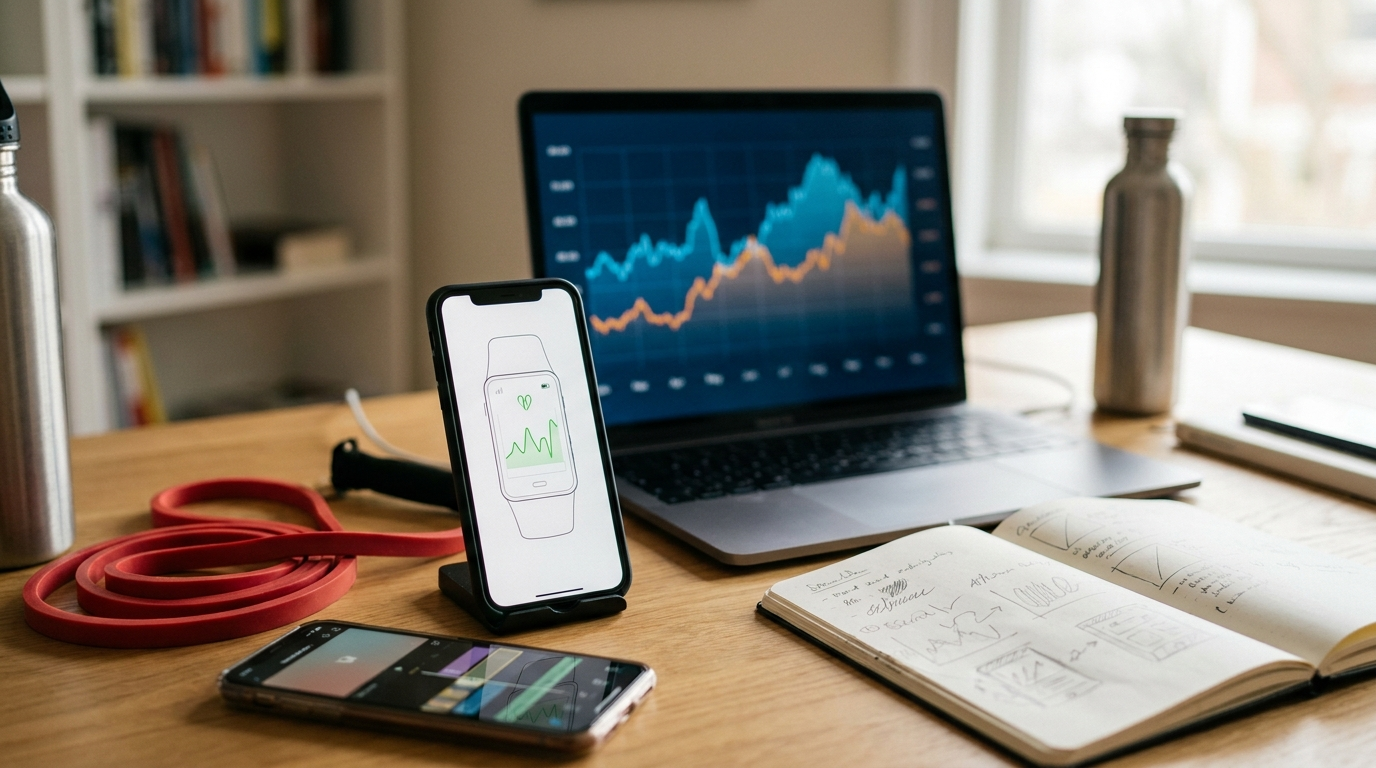
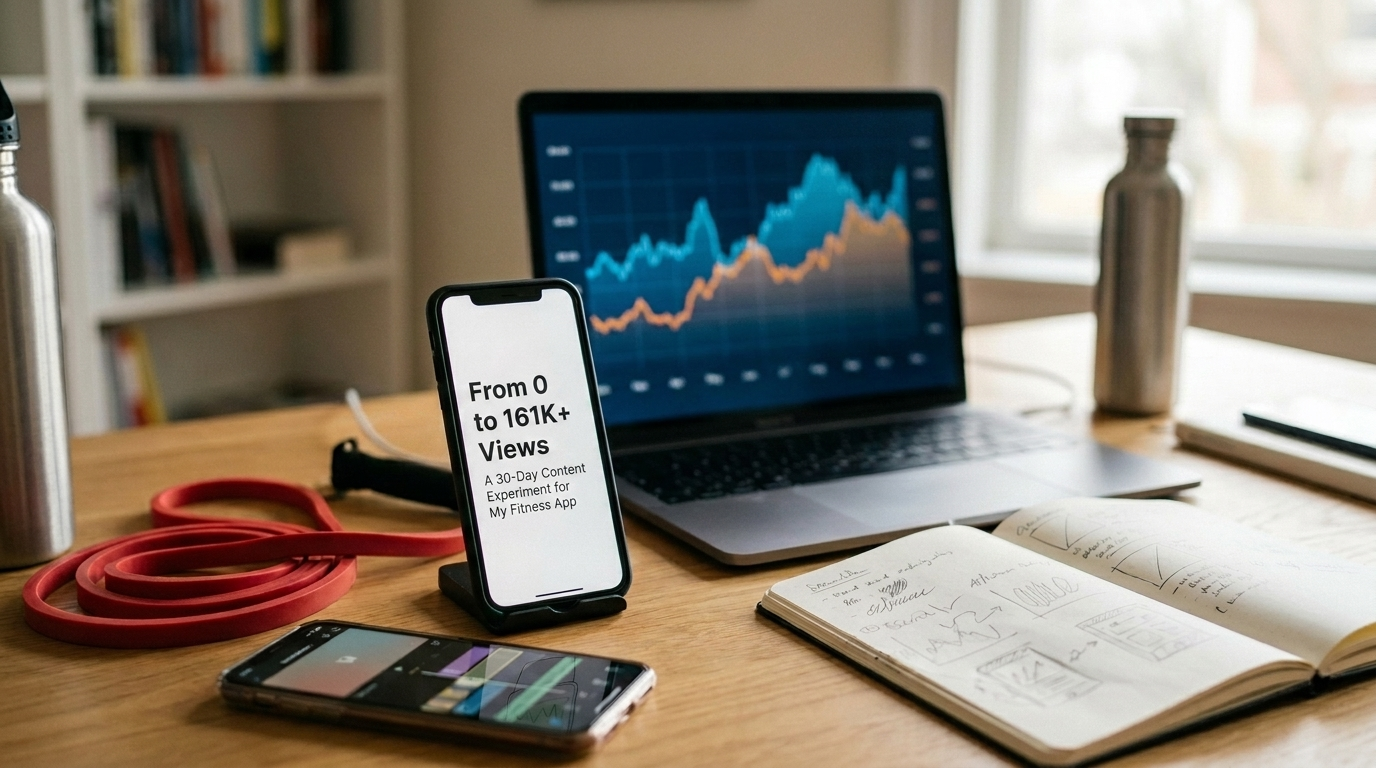
Correct Guppy total view count

Changed region(s): [[0.3438, 0.4688, 0.4375, 0.6875]]

diff --git a/web/lib/content/schema.test.ts b/web/lib/content/schema.test.ts
@@ -55,7 +55,7 @@ describe("caseStudyDocumentSchema", () => {
     ...validDocument,
     companyName: "Guppy",
     productName: "Guppy",
-    metrics: [{ label: "Total views", value: "139K+" }],
+    metrics: [{ label: "Total views", value: "161K+" }],
     tools: ["ClipStitchr"],
   };
 

diff --git a/web/README.md b/web/README.md
@@ -212,7 +212,7 @@ companyName: "Customer or product name"
 productName: "Product name"
 metrics:
   - label: "Total views"
-    value: "139K+"
+    value: "161K+"
 tools:
   - "ClipStitchr"
 ```
